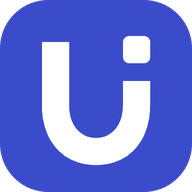
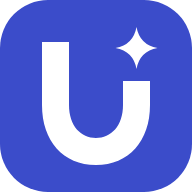
Мягкие вкладки «Заявок»; звезда Инвиктии вместо точки в знаке University

diff --git a/src/app/(cabinet)/requests/tabs.tsx b/src/app/(cabinet)/requests/tabs.tsx
@@ -17,11 +17,11 @@ export function RequestTabs({ current, active }: { current: "catalog" | "my"; ac
           scroll={false}
           transitionTypes={["nav-tab"]}
           aria-current={current === v ? "page" : undefined}
-          className={`flex min-h-11 items-center justify-center gap-1.5 rounded-xl text-sm font-semibold transition-colors ${current === v ? "bg-brand-fill text-on-brand" : "text-ink-2 hover:bg-fill"}`}
+          className={`flex min-h-11 items-center justify-center gap-1.5 rounded-xl text-sm font-semibold transition-colors ${current === v ? "bg-brand-soft text-brand" : "text-ink-2 hover:bg-fill"}`}
         >
           {label}
           {v === "my" && active > 0 && (
-            <span className={`min-w-5 rounded-full px-1.5 text-xs leading-5 ${current === v ? "bg-on-brand text-brand-fill" : "bg-brand-soft text-brand"}`}>
+            <span className={`min-w-5 rounded-full px-1.5 text-xs leading-5 ${current === v ? "bg-brand-fill text-on-brand" : "bg-brand-soft text-brand"}`}>
               <span className="sr-only">в работе: </span>
               {active}
             </span>

diff --git a/src/components/university-mark.tsx b/src/components/university-mark.tsx
@@ -4,7 +4,8 @@ export function UniversityMark({ size = 36, className = "" }: { size?: number; c
     <svg viewBox="0 0 64 64" width={size} height={size} fill="none" aria-hidden="true" focusable="false" className={`shrink-0 ${className}`}>
       <rect width="64" height="64" rx="16" className="fill-brand-fill" />
       <path d="M14 14H23V35C23 42 27 46 32 46C37 46 41 42 41 35V27H50V35C50 47 43 55 32 55C21 55 14 47 14 35V14Z" className="fill-on-brand" />
-      <rect x="41" y="12" width="9" height="9" rx="2" className="fill-on-brand" />
+      {/* Звезда Инвиктии вместо точки над U (NursuUwU, 19.11): та же четырёхлучевая, что на лбу помощницы. */}
+      <path d="M45.5 9Q46.57 14.93 52.5 16Q46.57 17.07 45.5 23Q44.43 17.07 38.5 16Q44.43 14.93 45.5 9Z" className="fill-on-brand" />
     </svg>
   );
 }

diff --git a/scripts/brand-assets.py b/scripts/brand-assets.py
@@ -18,6 +18,16 @@ def cubic(p0, p1, p2, p3):
             for t in (n/64 for n in range(1, 65))]
 
 
+def quad(p0, p1, p2):
+    return [tuple((1-t)**2*p0[i] + 2*(1-t)*t*p1[i] + t*t*p2[i] for i in (0, 1))
+            for t in (n/32 for n in range(1, 33))]
+
+
+# Звезда Инвиктии над U — как в mark.svg (четыре квадратичных луча).
+STAR = [(45.5, 9), (46.57, 14.93), (52.5, 16), (46.57, 17.07), (45.5, 23),
+        (44.43, 17.07), (38.5, 16), (44.43, 14.93), (45.5, 9)]
+
+
 def mark(size):
     scale = size * 4 / 64
     canvas = Image.new("RGBA", (size*4, size*4), (0, 0, 0, 0))
@@ -30,7 +40,10 @@ def mark(size):
     points += cubic((50, 35), (50, 47), (43, 55), (32, 55))
     points += cubic((32, 55), (21, 55), (14, 47), (14, 35))
     draw.polygon([(x*scale, y*scale) for x, y in points], fill="white")
-    draw.rounded_rectangle((41*scale, 12*scale, 50*scale, 21*scale), radius=2*scale, fill="white")
+    star = []
+    for i in range(0, 8, 2):
+        star += quad(STAR[i], STAR[i+1], STAR[i+2])
+    draw.polygon([(x*scale, y*scale) for x, y in star], fill="white")
     return canvas.resize((size, size), Image.Resampling.LANCZOS)
 
 

diff --git a/public/brand/README.md b/public/brand/README.md
@@ -1,7 +1,8 @@
 # University: собственный знак
 
 Синий `#3b4cca`, белая U с отделённым верхним модулем: университет как место,
-где разрозненные учебные действия собираются вместе. Нейтральная геометрия без герба,
+где разрозненные учебные действия собираются вместе. С 19.11 модуль — четырёхлучевая звезда
+Инвиктии (помощницы кабинета) вместо квадратной точки. Нейтральная геометрия без герба,
 официальных символов, шрифтов и заимствованных иконок. Строгая проверка всех товарных
 знаков не проводилась; знак не построен на логотипе какого-либо вуза.
 
